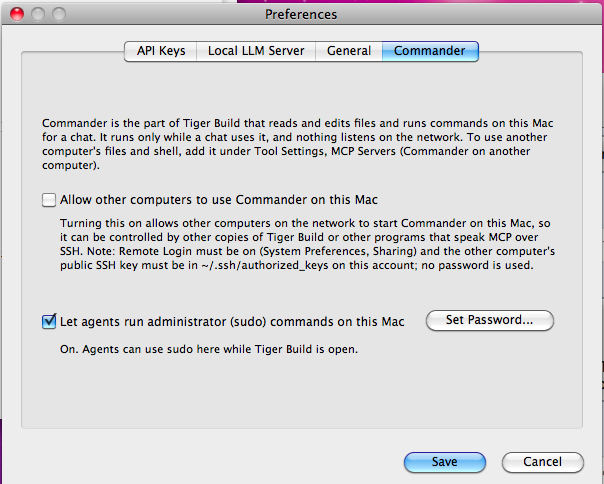
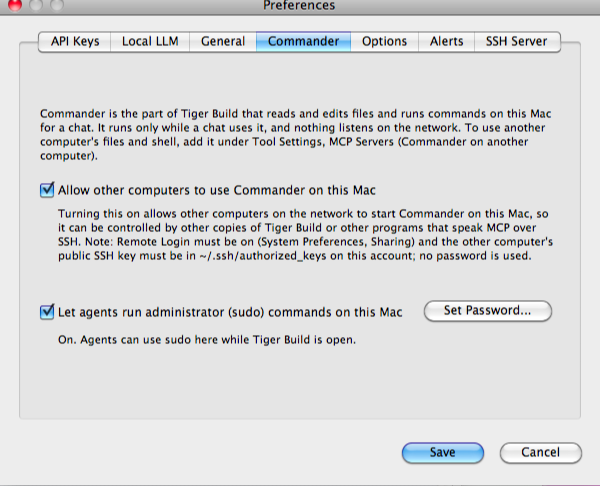
Docs: settings locations, new Preferences and approval screenshots, Alerts tab text that fits

Changed region(s): [[0.0, 0.0, 1.0, 1.0]]

diff --git a/tiger-build/ChatController+Housekeeping.m b/tiger-build/ChatController+Housekeeping.m
@@ -86,8 +86,8 @@ static double numberOf(id v)
         [today setFont:[NSFont systemFontOfSize:11]];
         [prefsFields setObject:today forKey:@"spend.today"];
     }
-    [self preferencesNote:@"A blank box means no limit. Costs are estimates (the number above each chat), so a limit is approximate: a reply is stopped when the total "
-        @"passes it, and the chat or day stays blocked until you raise or clear the limit. Local models cost nothing."
+    [self preferencesNote:@"A blank box means no limit. Costs are estimates, so a limit is approximate: a reply stops when the total passes it, and the chat or day stays "
+        @"blocked until you raise or clear the limit."
         frame:NSMakeRect(16, y - 56, 520, 52) inView:tab];
 }
 

diff --git a/README.md b/README.md
@@ -27,9 +27,9 @@ Tiger Build is licensed under the MIT License and comes with no warranty. See [`
 
 **Preferences** are in tabs so they fit a 800x600 screen (iBook G3 Clamshell), and **MCP servers** are a list with an edit sheet:
 
-| Commander | Local LLM Server | MCP servers |
-| --- | --- | --- |
-| ![Preferences, Commander tab](docs/screenshots/client-preferences-commander.png) | ![Preferences, Local LLM Server tab](docs/screenshots/client-preferences-llm.png) | ![MCP Servers tab](docs/screenshots/client-mcp-servers.png) |
+| Commander | Local LLM | Alerts | MCP servers |
+| --- | --- | --- | --- |
+| ![Preferences, Commander tab](docs/screenshots/client-preferences-commander.png) | ![Preferences, Local LLM tab](docs/screenshots/client-preferences-llm.png) | ![Preferences, Alerts tab](docs/screenshots/client-preferences-alerts.png) | ![MCP Servers tab](docs/screenshots/client-mcp-servers.png) |
 
 **Appearance** (Tiger Build menu) changes the chat, tool-call boxes, status text and interface, and the window look (brushed metal, gray, pinstripes, gradient or a solid colour), with a live sample on top:
 
@@ -100,20 +100,20 @@ make test       # unit tests
 
 ## Configuration and Setting File Locations and Content
 
-Everything is on the Mac. API keys, the search keys and the custom MCP server list (which can hold tokens) are in the **login Keychain** under "Tiger Build API keys". The rest:
+Everything is on the Mac. API keys, the search keys and the custom MCP server list (which can hold tokens) and the access tokens from MCP servers you signed in to are in the **login Keychain** under "Tiger Build API keys". The rest:
 
 **`~/Library/Application Support/Tiger Build/`**
 
 | File | Contents |
 | --- | --- |
-| `chats.plist`, `workspaces/<name>.plist` | Chats and settings per workspace, with `backups/` beside them |
+| `chats.plist`, `workspaces/<name>.plist` | Chats and settings per workspace (including its memory notes, if you turned memory on), with `backups/` beside them |
 | `attachments/`, `media/` | Attached files, and pictures, videos and files the model made |
 | `ssh/` | The key and trusted host list for MCP servers on other computers (only if you set that up) |
 | `commander/` | Commander's settings, tool history and the files that say whether Commander is stopped or other computers are allowed |
 | `notes-data.json`, `agent-notes.txt` | The example notebook server and the toolbox notes |
 | `history-before-import-*.plist` | Backups made before a history import |
 
-Preferences are in `~/Library/Preferences/local.tigerbuild.TigerBuild.plist`.
+Preferences, including the alert, update-check and spending-limit settings and today's running total, are in `~/Library/Preferences/local.tigerbuild.TigerBuild.plist`.
 
 Note: Pricing estimates on model usage are provided as a convenience and may not always be accurate. Check the usage directly on the provider's API dashboard for the actual numbers.
 
@@ -193,7 +193,7 @@ the latest and greatest models available for you to use, excluding API updates t
 - File conversion refuses XML entity definitions and oversized archives. A model can only fetch pictures from public web addresses, never from your own network.
 - **Programs on other computers** (an MCP server over SSH, such as another Mac's Commander) use a key only Tiger Build knows (`ssh/` in Application Support) and a host list you confirm by fingerprint; if that computer's key ever changes, Tiger Build refuses to connect. Tiger Build makes an ed25519 key for modern hosts and an RSA one for old hosts, which a recent macOS must be told to accept.
 - **Administrator (sudo) mode** is off. To let agents run commands as root on a Mac, open Preferences, Commander, tick *Let agents run administrator (sudo) commands*, and type the account password once. Tiger Build checks it and keeps it in that Mac's Keychain, where only Tiger Build can read it. Commander cannot open that Keychain item, so when a command contains `sudo`, it asks the running Tiger Build for the password over a socket only that account can use, and gives it to sudo through a pipe that is closed before the model's command starts. A chat can use sudo only when its Tools menu has the sudo item ticked (which turns Commander on); the Preferences setting saves the password and the setting for other uses of the program. It works only for Commander on this Mac. The model never sees it, but it runs as the same account, so with sudo on it can do anything root can. `Tiger Build.app/Contents/Resources/ppc-commander --sudo on|off|status` does the same from a terminal, and a root-owned `/etc/ppc-commander.json` containing `{"sudoMode": false}` keeps it off. Blocked commands such as `shutdown` stay blocked under sudo, the approval question marks sudo commands, and `sudo` is refused with `detach`. The login keychain must be unlocked, so stay logged in.
-- **Tiger Build's SSH server and client.** The app carries a current OpenSSH client (ed25519 and RSA keys, ML-KEM key exchange, LibreSSL linked in) and uses it to reach other computers (`ssh:user@address`, or `ssh:user@address:2222` for another Tiger Build's server); a host that only speaks the old algorithms (a stock Remote Login on Tiger to Snow Leopard) is detected when you choose Trust Host and reached with the same client, an RSA key and the old algorithms switched back on. The installer also puts Tiger Build's own SSH server in `/usr/local/tbssh` (root-owned). It is **off** until you tick *Allow other computers to use Commander on this Mac* and give the administrator password in the system's dialog; it then listens on port 2222, accepts only the public keys you list in Preferences, SSH Server (*Allowed Keys...*), and can run nothing but Commander (no shell, terminal or forwarding). Turning Allow Other Computers off stops it. Remote Login (port 22) is not changed. *Copy Host Fingerprint* gives the fingerprint to compare when the other computer trusts this one. The full client set (`ssh`, `scp`, `sftp`, `ssh-add`, `ssh-agent`, `ssh-keygen`, `ssh-keyscan`) is in `/usr/local/tbssh/bin` for terminal use (every key type; LibreSSL is linked in), with `sshfs` beside it (`sshfs -o ssh_command=/usr/local/tbssh/bin/ssh user@host:/path ~/mnt`; needs MacFUSE; see `third_party/sshfs`). On Leopard and Snow Leopard the installer adds a Quick Look generator for HEIC, AVIF, WebP and JPEG XL pictures, Markdown and CSV files (as pages), JSON files (as text), ZIP archives (the file list), EPUB books (cover and text) and Word, Excel, PowerPoint and OpenDocument files (folders cannot be done: Quick Look forbids generators for them).
+- **Tiger Build's SSH server and client.** The app carries a current OpenSSH client (ed25519 and RSA keys, ML-KEM key exchange, LibreSSL linked in) and uses it to reach other computers (`ssh:user@address`, or `ssh:user@address:2222` for another Tiger Build's server); a host that only speaks the old algorithms (a stock Remote Login on Tiger to Snow Leopard) is detected when you choose Trust Host and reached with the same client, an RSA key and the old algorithms switched back on. The installer also puts Tiger Build's own SSH server in `/usr/local/tbssh` (root-owned). It is **off** until you tick *Allow other computers to use Commander on this Mac* and give the administrator password in the system's dialog; it then listens on port 2222, accepts only the public keys you list in Preferences, SSH Server (*Allowed Keys...*), and can run nothing but Commander (no shell, terminal or forwarding). Turning Allow Other Computers off stops it. Remote Login (port 22) is not changed. *Copy Host Fingerprint* gives the fingerprint to compare when the other computer trusts this one. The full client set (`ssh`, `scp`, `sftp`, `ssh-add`, `ssh-agent`, `ssh-keygen`, `ssh-keyscan`) is in `/usr/local/tbssh/bin` for terminal use (every key type; LibreSSL is linked in), with `sshfs` beside it (`sshfs -o ssh_command=/usr/local/tbssh/bin/ssh user@host:/path ~/mnt`; needs MacFUSE; see `third_party/sshfs`). On Leopard and Snow Leopard the installer adds a Quick Look generator for HEIC, AVIF, WebP and JPEG XL pictures, Markdown and CSV files (as pages), JSON files (as text), ZIP archives (the file list), EPUB books (cover and text) and Word, Excel, PowerPoint and OpenDocument files.
 - **How sudo is kept apart between chats and computers.** The password is handed over only against a key. Each Commander that Tiger Build starts for a chat with the sudo item ticked gets its own random key, sent over its standard input (not its environment or arguments, which other programs of the account can read) and valid only while that Commander runs; a chat without the item has no key, so a model there cannot get the password whatever else is open (several chats can differ, each has its own Commander). New chats never start with sudo, download or screen control ticked. **Other computers** can use sudo on this Mac only if you tick *Let other computers run administrator (sudo) commands here* in Preferences, Commander Options (needs Allow Other Computers and the saved password) and copy this Mac's key (**Copy Key**, kept in the Keychain) into the server's Environment on that computer as `TB_SUDO_KEY=...`; that computer sends it, again over standard input, only for chats that have the sudo item ticked. This Mac's own chats are unaffected by that setting either way. Anyone who has this Mac's key and an SSH login can use sudo here, so treat the key like a password.
 - With tools on, a model runs shell commands as your account. The guards stop mistakes and simple tricks, not a determined attacker; use a separate account for real separation.
 

diff --git a/third_party/jxldec/README.md b/third_party/jxldec/README.md
@@ -3,7 +3,7 @@
 **What it is for:** reading `.jxl` pictures (attachments, `convert_file`, Quick Look). One plain-C file, no dependencies, decode only, single-threaded. It is compiled into `tiger-build/TBNet.c`'s object, so every program that has the converter has it.
 
 - **Source:** https://github.com/kjk/jxldec, `dist/jxl.c` and `dist/jxl.h` at commit d71b246 (2026-10-04), checked against their SHA-256 by `fetch.sh`. It is an AI-assisted port of the Rust decoder jxl-oxide, tested by its author against libjxl on more than 1,200 files.
-- **Licence: MIT.** The repository does not carry a LICENSE file yet. Its author said it is in the spirit of his other decoder, [djvudec](https://github.com/kjk/djvudec) (MIT), so it is treated as MIT, and `LICENSE` here is the standard MIT text in his name. If the repository later states something else, follow that.
+- **Licence: MIT.** Its author said it is in the spirit of his other decoder, [djvudec](https://github.com/kjk/djvudec) (MIT), so it is treated as MIT, and `LICENSE` here is the standard MIT text in his name. If the repository later states something else, follow that.
 - **Changes** (`patches/old-macs.patch`): on PowerPC the decoder's byte swap was not used because gcc 4.0 and 4.2 do not define `__BYTE_ORDER__`, so every file failed on a G4; the same patch reads the coefficient order as two 16-bit numbers (it read one 32-bit number, which swaps the halves on PowerPC); and the x86 `cpuid.h` include is skipped when SIMD is switched off. `TBNet.c` switches the AVX2/SSE2 code off (`JXL_NO_AVX2`, `JXL_DCT_FORCE_SCALAR`, `JXL_EPF_FORCE_SCALAR`), as these compilers have no `immintrin.h`.
 - **Tried:** every file below decodes on a G4 (Tiger), a Leopard Mac and a Snow Leopard Mac, identical on all three and within one step of libjxl (`djxl`): lossless, lossy (VarDCT and Modular), 16-bit grey, alpha, animation with alpha, splines, 1536x1024. About 14,000 damaged files were fed to a sanitizer build without a memory error. A G4 takes about 5 seconds for 1536x1024.
 - **Limits in Tiger Build:** at most 16384 pixels either way and 40 million in all; a long animation is judged by its first frames; the picture is turned into a JPEG, so transparency becomes white. JPEG XL files that were made by recompressing a JPEG are decoded to pixels, not turned back into the JPEG.
